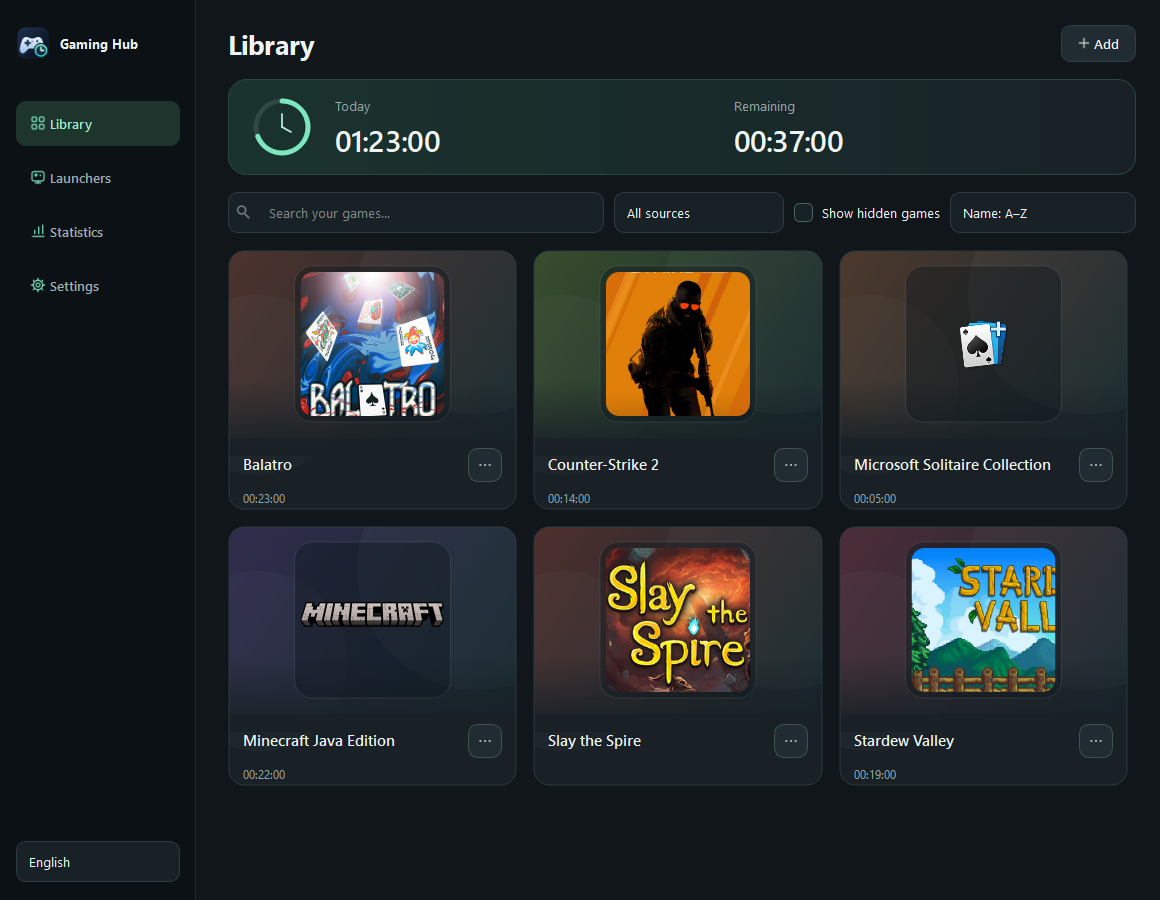
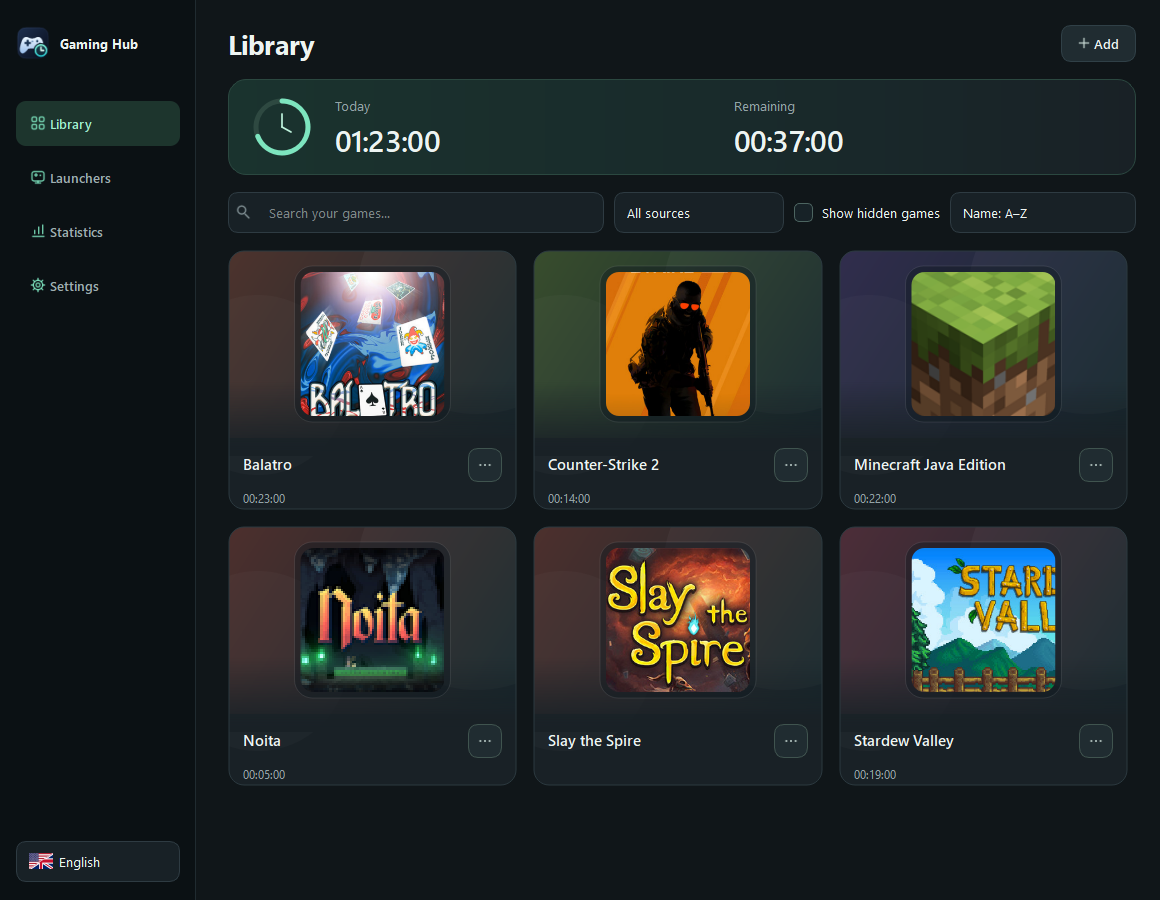
Refresh README screenshots for the current interface
Capture the library, color-coded statistics and weekly schedule from 2.26.2 with synthetic history in English and Hungarian. Replace Solitaire with Noita, link localized images, and include those documentation assets in future packages.

diff --git a/README.md b/README.md
@@ -16,7 +16,7 @@ Free and open source, with an English and Hungarian interface. Local tracking wo
 - **Optional computer linking:** combine statistics from your own PCs through encrypted synchronization and give each computer a recognizable name.
 
 ![Game library and daily budget](docs/images/library-en.png)
-*English interface. Screenshots may show an earlier layout and sample history. Game artwork belongs to its respective owners.*
+*Version 2.26.2 with sample history. Game artwork belongs to its respective owners.*
 
 ## Requirements and game support
 
@@ -48,7 +48,7 @@ The optional **Cap remaining game time at bedtime** setting limits the countdown
 
 This is a personal time-management tool, not tamper-resistant parental control. Automatic minimization does not close games or shut down the PC and can have inactivity or leaving consequences in online games.
 
-![Bedtime settings](docs/images/bedtime-en.png)
+![Weekly schedule and bedtime settings](docs/images/bedtime-en.png)
 
 ## Make the countdown and reminders your own
 
